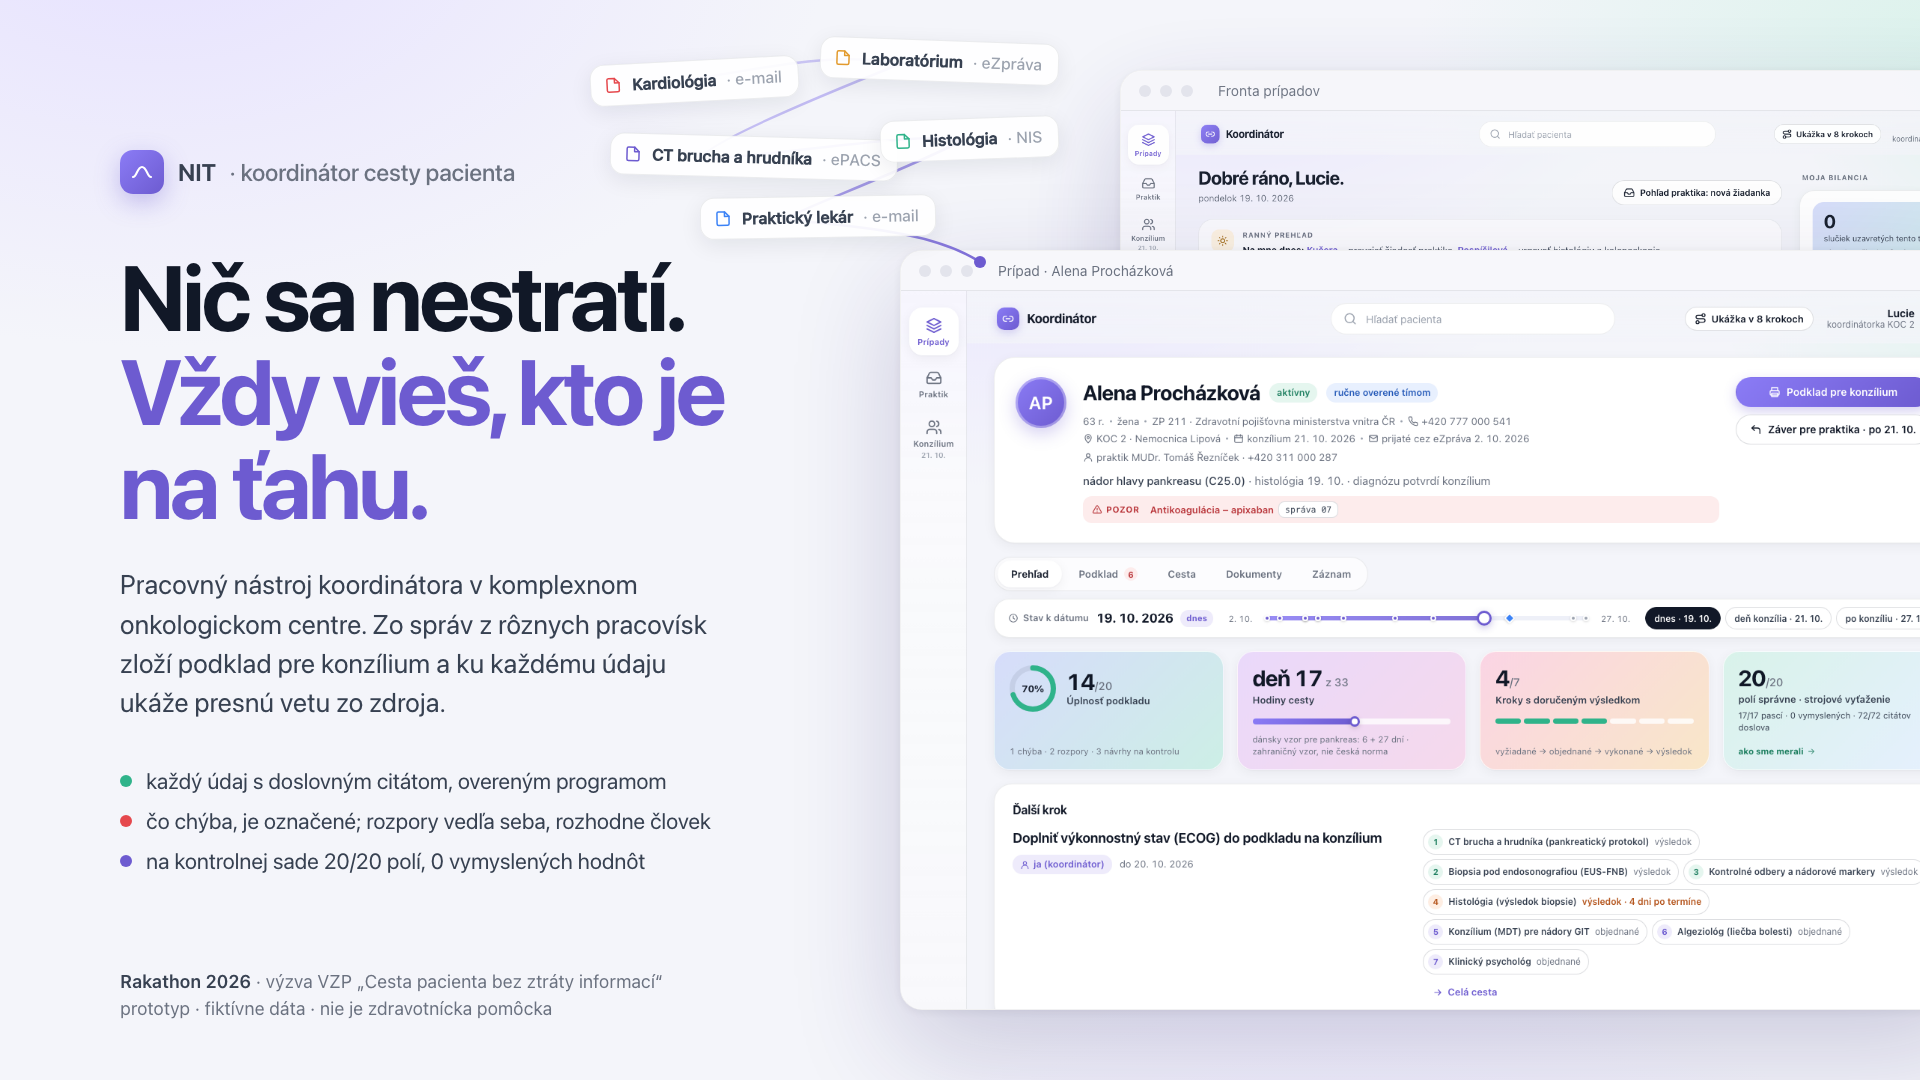
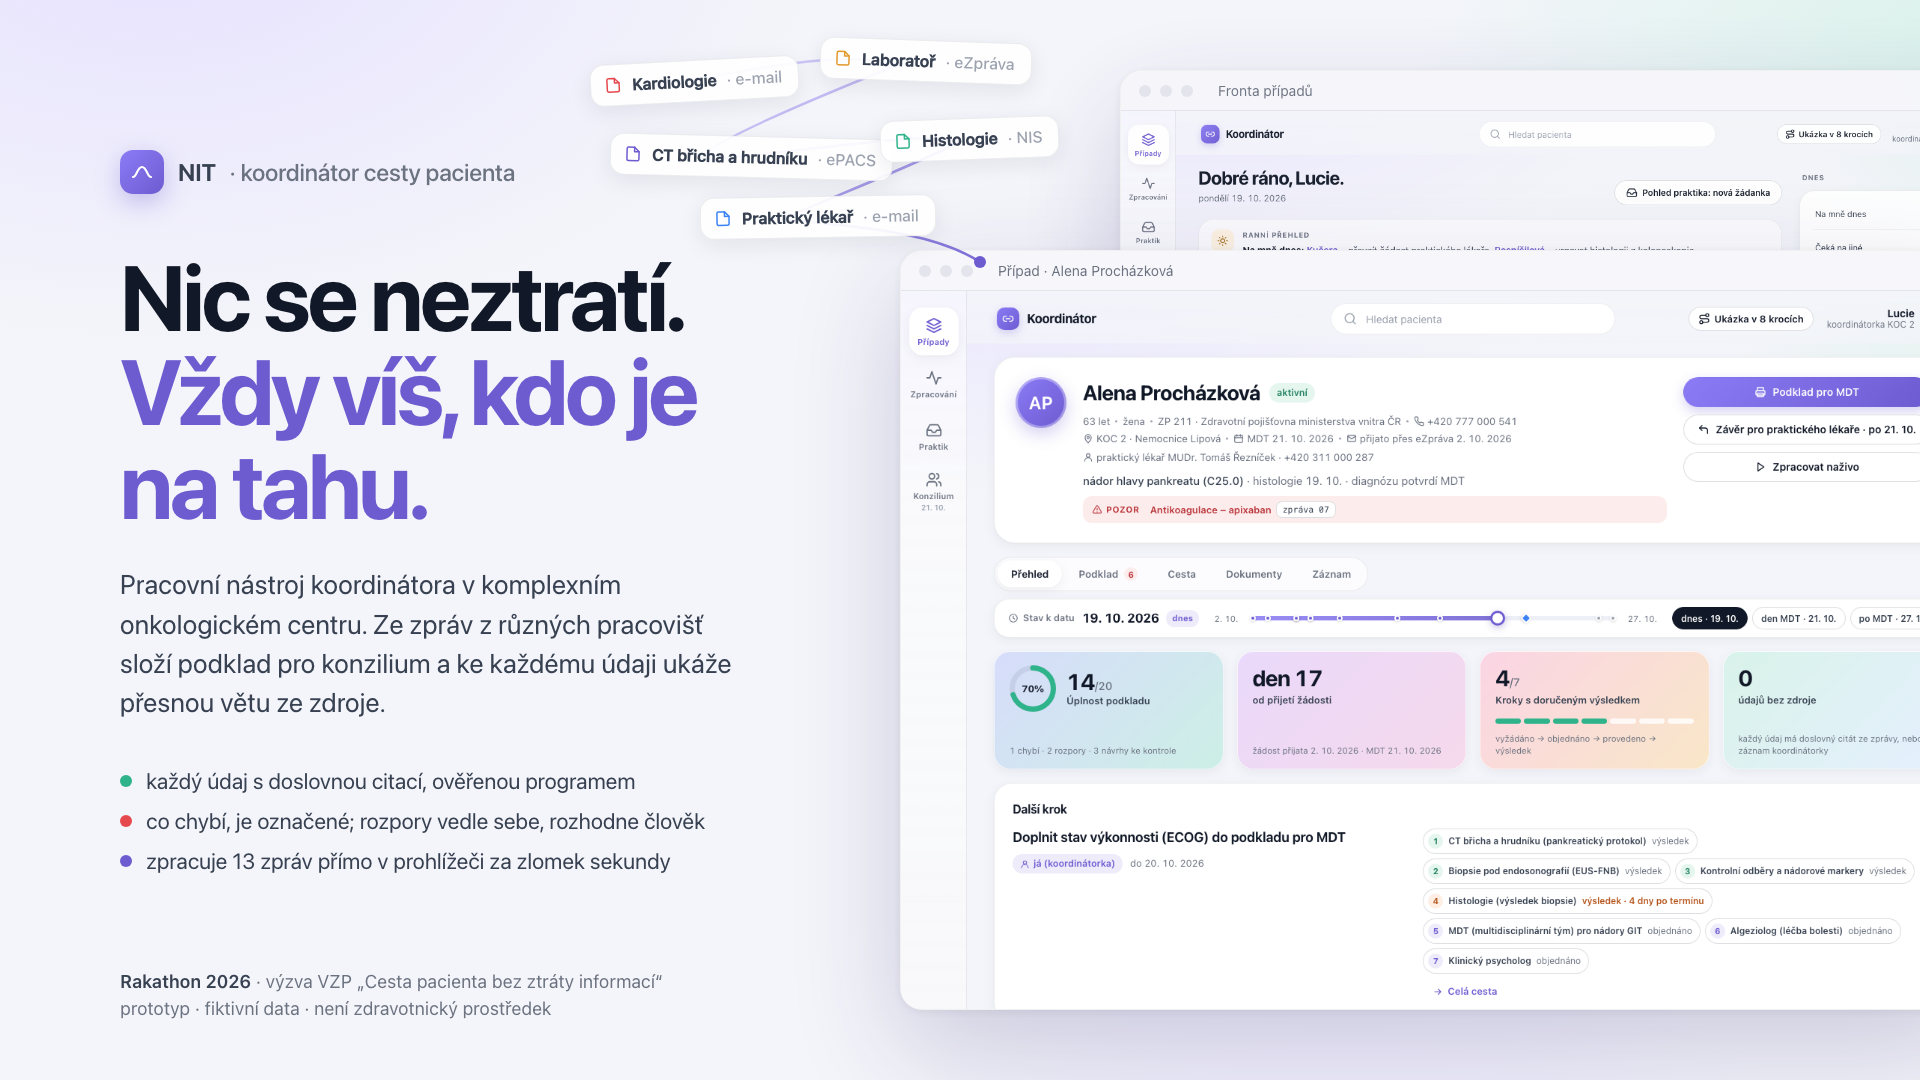
[bruno] Titulný obrázok po česky

diff --git a/docs/odovzdanie/cover.html b/docs/odovzdanie/cover.html
@@ -1,8 +1,8 @@
 <!doctype html>
-<html lang="sk">
+<html lang="cs">
 <head>
 <meta charset="utf-8">
-<title>Titulný obrázok 16:9</title>
+<title>Titulní obrázek 16:9</title>
 <!-- Titulný obrázok pre submit.rakathon.cz (16:9, 1920×1080). Zloží sa zo skutočných screenshotov appky.
      Render: Chrome headless --window-size=1920,1080 --screenshot. Názov produktu: ?name=NIT (prázdne = bez názvu). -->
 <style>
@@ -59,29 +59,29 @@
       <div class="mark"><svg width="24" height="24" viewBox="0 0 24 24" fill="none" stroke="#fff" stroke-width="2.2" stroke-linecap="round"><path d="M3 17c4 0 4-10 9-10s5 10 9 10"/></svg></div>
       <span id="name">NIT</span><span class="sub">· koordinátor cesty pacienta</span>
     </div>
-    <h1>Nič sa nestratí.<br><span class="soft">Vždy vieš, kto je na&nbsp;ťahu.</span></h1>
-    <p class="lead">Pracovný nástroj koordinátora v komplexnom onkologickom centre. Zo správ z rôznych pracovísk zloží podklad pre konzílium a ku každému údaju ukáže presnú vetu zo zdroja.</p>
+    <h1>Nic se neztratí.<br><span class="soft">Vždy víš, kdo je na&nbsp;tahu.</span></h1>
+    <p class="lead">Pracovní nástroj koordinátora v komplexním onkologickém centru. Ze zpráv z různých pracovišť složí podklad pro konzilium a ke každému údaji ukáže přesnou větu ze zdroje.</p>
     <div class="facts">
-      <div class="fact"><span class="dot" style="background:var(--mint)"></span>každý údaj s doslovným citátom, overeným programom</div>
-      <div class="fact"><span class="dot" style="background:var(--coral)"></span>čo chýba, je označené; rozpory vedľa seba, rozhodne človek</div>
-      <div class="fact"><span class="dot" style="background:var(--accent)"></span>na kontrolnej sade 20/20 polí, 0 vymyslených hodnôt</div>
+      <div class="fact"><span class="dot" style="background:var(--mint)"></span>každý údaj s doslovnou citací, ověřenou programem</div>
+      <div class="fact"><span class="dot" style="background:var(--coral)"></span>co chybí, je označené; rozpory vedle sebe, rozhodne člověk</div>
+      <div class="fact"><span class="dot" style="background:var(--accent)"></span>zpracuje 13 zpráv přímo v prohlížeči za zlomek sekundy</div>
     </div>
   </div>
-  <div class="foot"><b>Rakathon 2026</b> · výzva VZP „Cesta pacienta bez ztráty informací“<br>prototyp · fiktívne dáta · nie je zdravotnícka pomôcka</div>
+  <div class="foot"><b>Rakathon 2026</b> · výzva VZP „Cesta pacienta bez ztráty informací“<br>prototyp · fiktivní data · není zdravotnický prostředek</div>
 
-  <div class="win back"><div class="bar"><i></i><i></i><i></i><span>Fronta prípadov</span></div><div class="shot" style="background-image:url('../../app/design/shots/01-fronta.png')"></div></div>
-  <div class="win front"><div class="bar"><i></i><i></i><i></i><span>Prípad · Alena Procházková</span></div><div class="shot" style="background-image:url('../../app/design/shots/02-pripad-alena.png')"></div></div>
+  <div class="win back"><div class="bar"><i></i><i></i><i></i><span>Fronta případů</span></div><div class="shot" style="background-image:url('../../app/design/shots/01-fronta.png')"></div></div>
+  <div class="win front"><div class="bar"><i></i><i></i><i></i><span>Případ · Alena Procházková</span></div><div class="shot" style="background-image:url('../../app/design/shots/02-pripad-alena.png')"></div></div>
 
   <svg class="chips" viewBox="0 0 1920 1080">
     <defs><linearGradient id="th" x1="0" y1="0" x2="1" y2="1"><stop offset="0" stop-color="#8B7CF6" stop-opacity=".2"/><stop offset="1" stop-color="#6D5BD0" stop-opacity=".9"/></linearGradient></defs>
     <path d="M660 84 C 760 70, 830 50, 900 64 C 760 120, 700 150, 700 160 C 820 150, 930 130, 960 142 C 860 190, 780 215, 790 220 C 880 228, 940 236, 980 262" fill="none" stroke="url(#th)" stroke-width="2.5" stroke-linecap="round"/>
     <circle cx="980" cy="262" r="6" fill="#6D5BD0"/>
   </svg>
-  <div class="chip" style="left:590px; top:60px; transform:rotate(-3deg)"><svg width="18" height="18" viewBox="0 0 24 24" fill="none" stroke="#E5484D" stroke-width="2" stroke-linecap="round" stroke-linejoin="round"><path d="M14 3H6a2 2 0 0 0-2 2v14a2 2 0 0 0 2 2h12a2 2 0 0 0 2-2V9z"/><path d="M14 3v6h6"/></svg>Kardiológia<span style="color:#9CA3AF;font-weight:500">· e-mail</span></div>
-  <div class="chip" style="left:820px; top:40px; transform:rotate(2deg)"><svg width="18" height="18" viewBox="0 0 24 24" fill="none" stroke="#E29A2D" stroke-width="2" stroke-linecap="round" stroke-linejoin="round"><path d="M14 3H6a2 2 0 0 0-2 2v14a2 2 0 0 0 2 2h12a2 2 0 0 0 2-2V9z"/><path d="M14 3v6h6"/></svg>Laboratórium<span style="color:#9CA3AF;font-weight:500">· eZpráva</span></div>
-  <div class="chip" style="left:610px; top:136px; transform:rotate(1.5deg)"><svg width="18" height="18" viewBox="0 0 24 24" fill="none" stroke="#6D5BD0" stroke-width="2" stroke-linecap="round" stroke-linejoin="round"><path d="M14 3H6a2 2 0 0 0-2 2v14a2 2 0 0 0 2 2h12a2 2 0 0 0 2-2V9z"/><path d="M14 3v6h6"/></svg>CT brucha a hrudníka<span style="color:#9CA3AF;font-weight:500">· ePACS</span></div>
-  <div class="chip" style="left:880px; top:118px; transform:rotate(-2deg)"><svg width="18" height="18" viewBox="0 0 24 24" fill="none" stroke="#2FB38A" stroke-width="2" stroke-linecap="round" stroke-linejoin="round"><path d="M14 3H6a2 2 0 0 0-2 2v14a2 2 0 0 0 2 2h12a2 2 0 0 0 2-2V9z"/><path d="M14 3v6h6"/></svg>Histológia<span style="color:#9CA3AF;font-weight:500">· NIS</span></div>
-  <div class="chip" style="left:700px; top:196px; transform:rotate(-1deg)"><svg width="18" height="18" viewBox="0 0 24 24" fill="none" stroke="#3B82F6" stroke-width="2" stroke-linecap="round" stroke-linejoin="round"><path d="M14 3H6a2 2 0 0 0-2 2v14a2 2 0 0 0 2 2h12a2 2 0 0 0 2-2V9z"/><path d="M14 3v6h6"/></svg>Praktický lekár<span style="color:#9CA3AF;font-weight:500">· e-mail</span></div>
+  <div class="chip" style="left:590px; top:60px; transform:rotate(-3deg)"><svg width="18" height="18" viewBox="0 0 24 24" fill="none" stroke="#E5484D" stroke-width="2" stroke-linecap="round" stroke-linejoin="round"><path d="M14 3H6a2 2 0 0 0-2 2v14a2 2 0 0 0 2 2h12a2 2 0 0 0 2-2V9z"/><path d="M14 3v6h6"/></svg>Kardiologie<span style="color:#9CA3AF;font-weight:500">· e-mail</span></div>
+  <div class="chip" style="left:820px; top:40px; transform:rotate(2deg)"><svg width="18" height="18" viewBox="0 0 24 24" fill="none" stroke="#E29A2D" stroke-width="2" stroke-linecap="round" stroke-linejoin="round"><path d="M14 3H6a2 2 0 0 0-2 2v14a2 2 0 0 0 2 2h12a2 2 0 0 0 2-2V9z"/><path d="M14 3v6h6"/></svg>Laboratoř<span style="color:#9CA3AF;font-weight:500">· eZpráva</span></div>
+  <div class="chip" style="left:610px; top:136px; transform:rotate(1.5deg)"><svg width="18" height="18" viewBox="0 0 24 24" fill="none" stroke="#6D5BD0" stroke-width="2" stroke-linecap="round" stroke-linejoin="round"><path d="M14 3H6a2 2 0 0 0-2 2v14a2 2 0 0 0 2 2h12a2 2 0 0 0 2-2V9z"/><path d="M14 3v6h6"/></svg>CT břicha a hrudníku<span style="color:#9CA3AF;font-weight:500">· ePACS</span></div>
+  <div class="chip" style="left:880px; top:118px; transform:rotate(-2deg)"><svg width="18" height="18" viewBox="0 0 24 24" fill="none" stroke="#2FB38A" stroke-width="2" stroke-linecap="round" stroke-linejoin="round"><path d="M14 3H6a2 2 0 0 0-2 2v14a2 2 0 0 0 2 2h12a2 2 0 0 0 2-2V9z"/><path d="M14 3v6h6"/></svg>Histologie<span style="color:#9CA3AF;font-weight:500">· NIS</span></div>
+  <div class="chip" style="left:700px; top:196px; transform:rotate(-1deg)"><svg width="18" height="18" viewBox="0 0 24 24" fill="none" stroke="#3B82F6" stroke-width="2" stroke-linecap="round" stroke-linejoin="round"><path d="M14 3H6a2 2 0 0 0-2 2v14a2 2 0 0 0 2 2h12a2 2 0 0 0 2-2V9z"/><path d="M14 3v6h6"/></svg>Praktický lékař<span style="color:#9CA3AF;font-weight:500">· e-mail</span></div>
 
 <script>
   const q = new URLSearchParams(location.search);
